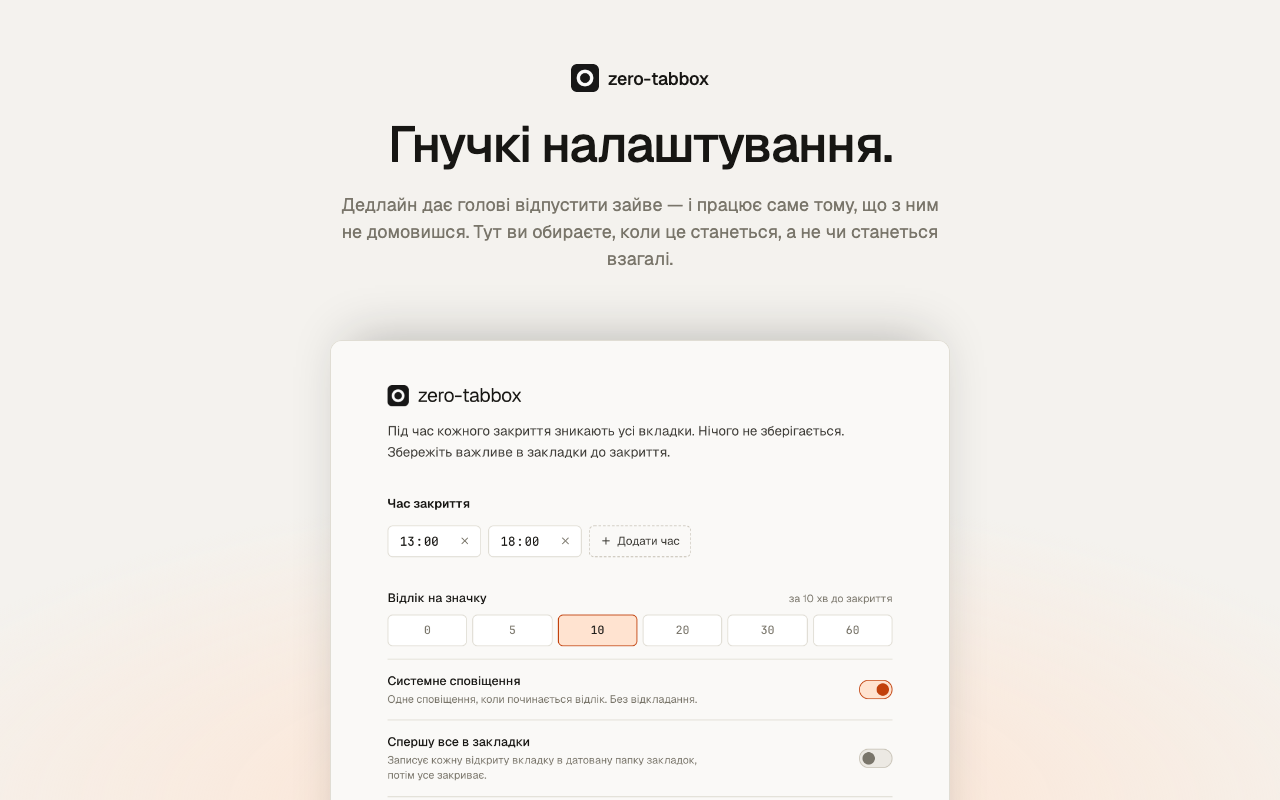
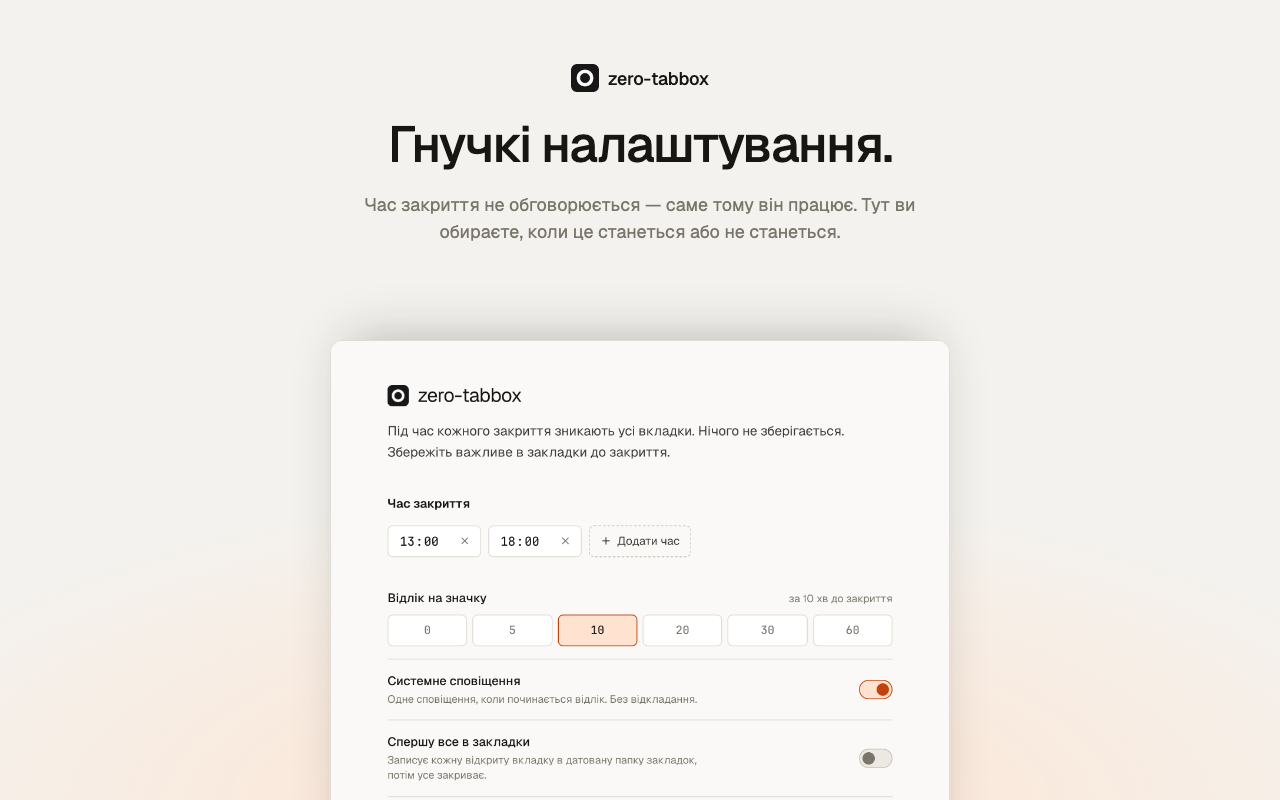
Rephrase the Ukrainian options caption without the let-go metaphor
"Дедлайн дає голові відпустити зайве" read like translated self-help;
the caption now leans on the UI's own term instead — час закриття —
and the terms-page tone: it is not up for discussion, you pick the
time. The README's AMO caption for shot 3 follows.

Claude-Session: https://claude.ai/code/session_01WAUht7H3ewb9gHFV21ocF2

Changed region(s): [[0.25, 0.25, 0.75, 0.3438]]

diff --git a/store/README.md b/store/README.md
@@ -102,7 +102,7 @@ the listing's Ukrainian language tab on Chrome. Its AMO captions:
 | --- | --- |
 | 1 | Відкрита вкладка — незавершене рішення. Ось що на кону і скільки часу лишилося. |
 | 2 | Розклад не запуститься, доки ви не приймете ці умови. |
-| 3 | Дедлайн дає голові відпустити зайве — він працює, бо з ним не домовишся. |
+| 3 | Час закриття не обговорюється — саме тому він працює. |
 | 4 | День закінчується на нулі. Важливе — у закладках. |
 | 5 | Підлаштовується під тему системи. |
 
